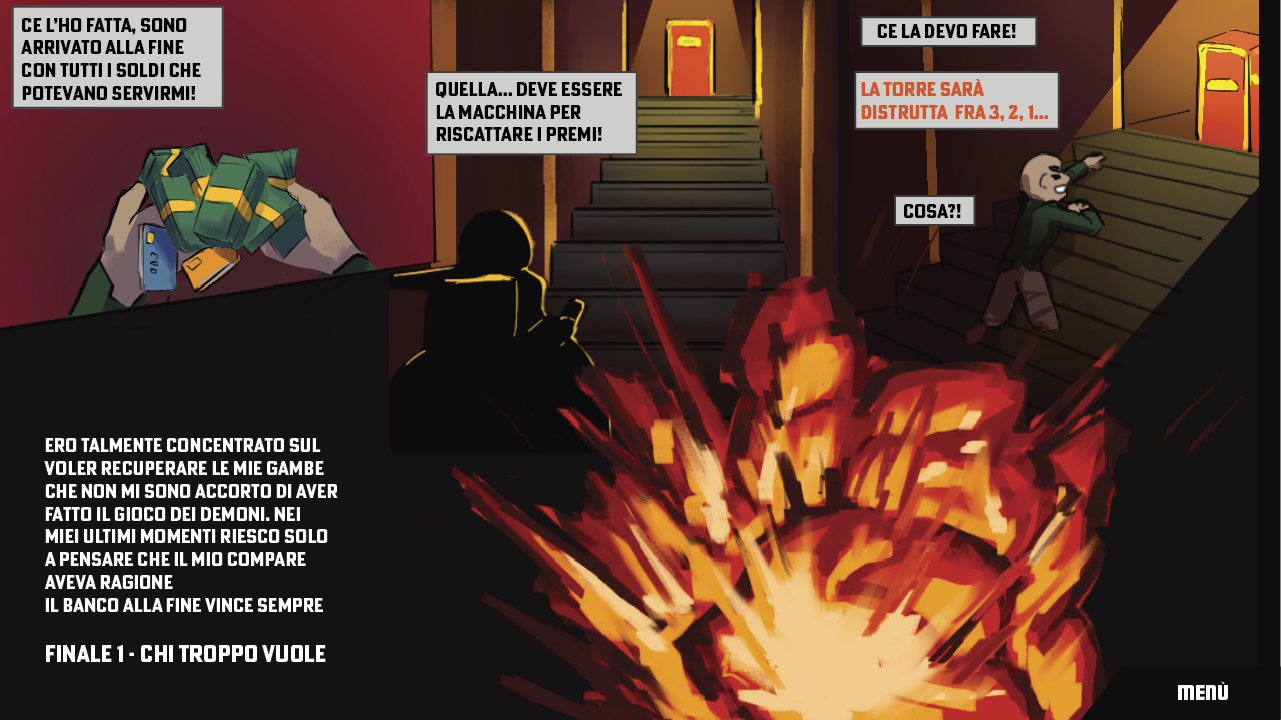
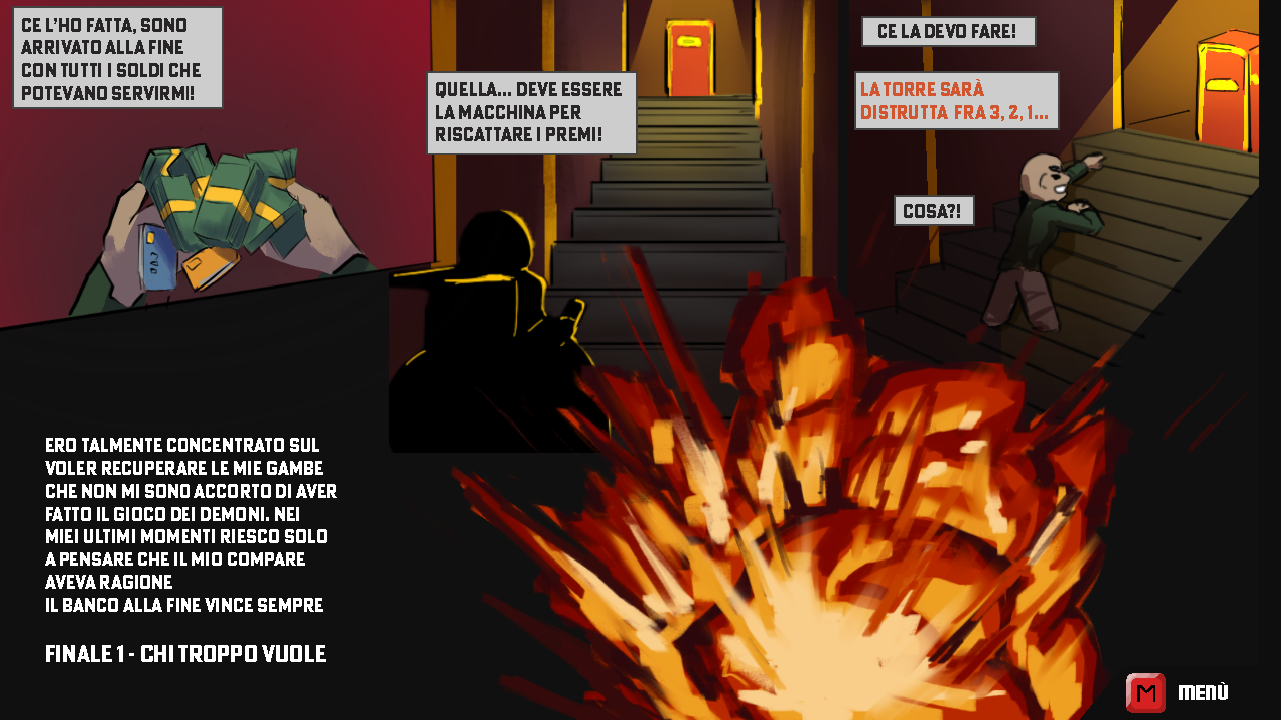
Tutte immagini modificate

diff --git a/src/Lettere.js b/src/Lettere.js
@@ -17,9 +17,9 @@ function preload_lettera (s) {
 
     lettera_1_img = PP.assets.image.load(s, "assets/immagini/Lettera1.png", 150, 150);
     lettera_2_img = PP.assets.image.load(s, "assets/immagini/Lettera 2.png", 150, 150);
-    lettera_3_img = PP.assets.image.load(s, "assets/immagini/arca.jpg", 150, 150);
-    lettera_4_img = PP.assets.image.load(s, "assets/immagini/arca.jpg", 150, 150);
-    lettera_5_img = PP.assets.image.load(s, "assets/immagini/arca.jpg", 150, 150);
+    lettera_3_img = PP.assets.image.load(s, "assets/immagini/Lettera 3.png", 150, 150);
+    lettera_4_img = PP.assets.image.load(s, "assets/immagini/lettera5.png", 150, 150);
+    lettera_5_img = PP.assets.image.load(s, "assets/immagini/lettera6.png", 150, 150);
 }
 
 function create_lettera (s, x, y){
@@ -44,6 +44,8 @@ function collision_lettera (s, lettera, player) {
     PP.assets.destroy(lettera);
 
     lettera_1 = PP.assets.image.add(s, testo_lettere[prev_score], player.geometry.x + 250, player.geometry.y - 150, 0.5, 0.5);
+    lettera_1.geometry.scale_y = 0.8;
+    lettera_1.geometry.scale_x = 0.8;
     PP.physics.set_velocity_x(player, 0);
     PP.physics.set_velocity_y(player, 0);
     PP.physics.set_allow_gravity(player, false);

diff --git a/src/Scene/Main_Menu.js b/src/Scene/Main_Menu.js
@@ -16,9 +16,9 @@ function preload (s) {
 
 function create (s){
     sfondo = PP.assets.image.add(s, sfondo_titolo, 0, 0, 0, 0);
-    pulsante_storia = PP.assets.image.add(s, storia, 65, 520, 0, 0);
-    pulsante_gioco = PP.assets.image.add(s, gioco, 65+400, 520, 0, 0);
-    pulsante_crediti = PP.assets.image.add(s, crediti, 65+800, 520, 0, 0);
+    pulsante_storia = PP.assets.image.add(s, storia, 65, 600, 0, 0);
+    pulsante_gioco = PP.assets.image.add(s, gioco, 65+300, 600, 0, 0);
+    pulsante_crediti = PP.assets.image.add(s, crediti, 65+570, 600, 0, 0);
     PP.interactive.mouse.add(pulsante_storia, "pointerdown", goto_storia);
     PP.interactive.mouse.add(pulsante_crediti, "pointerdown", goto_crediti);
     PP.interactive.mouse.add(pulsante_gioco, "pointerdown", goto_gioco);

diff --git a/src/Scene/Storia.js b/src/Scene/Storia.js
@@ -39,6 +39,20 @@ function update(s){
         timer_lettura_tavola = true;
         PP.timers.add_timer(s, 800, riattiva_tavole, false);
     }
+    if (PP.interactive.kb.is_key_down(s, PP.key_codes.M)) {
+        if (numero_tavola >= 2)
+        {
+            PP.scenes.start("Main_Menu");
+            return;
+        }
+    }
+    if (PP.interactive.kb.is_key_down(s, PP.key_codes.G)) {
+        if (numero_tavola >= 2)
+        {
+            PP.scenes.start("level1");
+            return;
+        }
+    }
 }
 }
 

diff --git a/src/Scene/level1.js b/src/Scene/level1.js
@@ -347,7 +347,7 @@ function create (s) {
     //funzioni richiamate
     create_lettera(s, 100, 170);
     create_lettera(s, 7800, 170);
-    create_lettera(s, 7000, 170);
+    //create_lettera(s, 7000, 170);
     create_lettera(s, 7100, -1400);
 
     create_player (s, -2130, 600);
